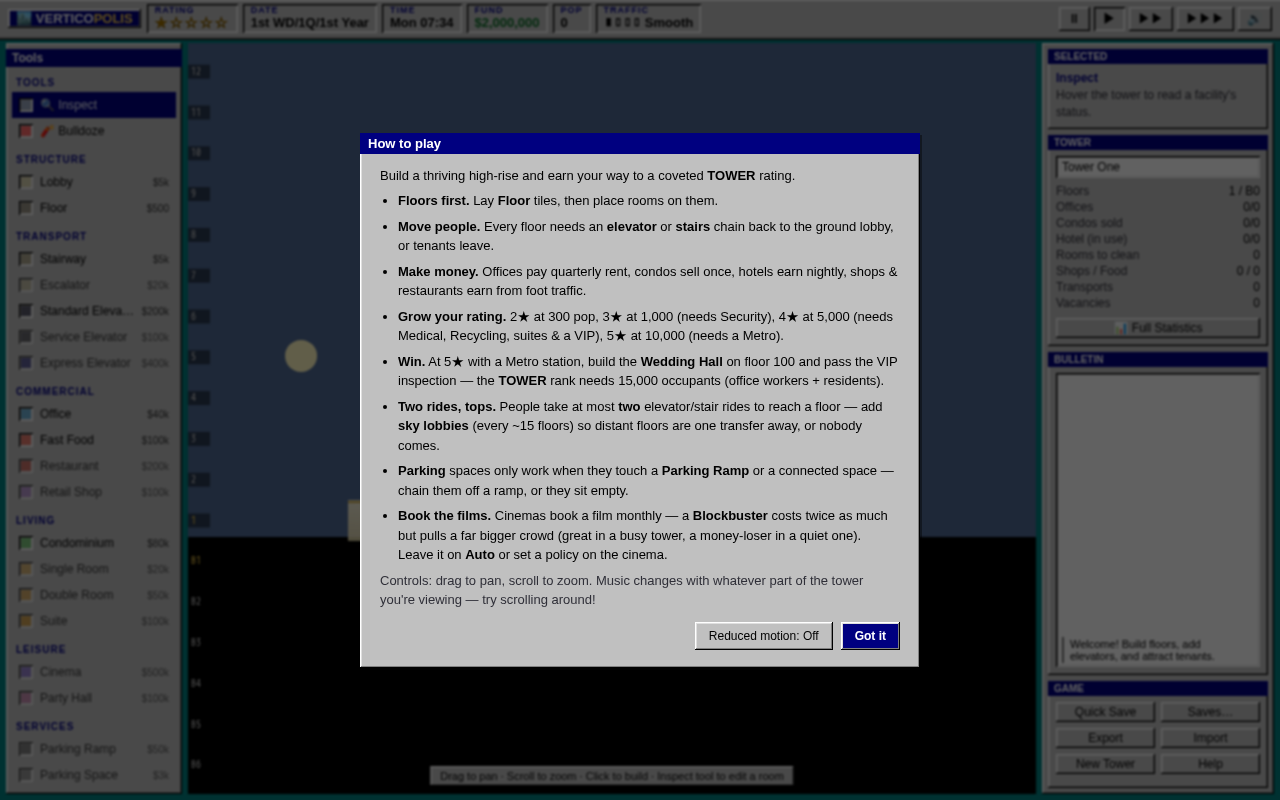
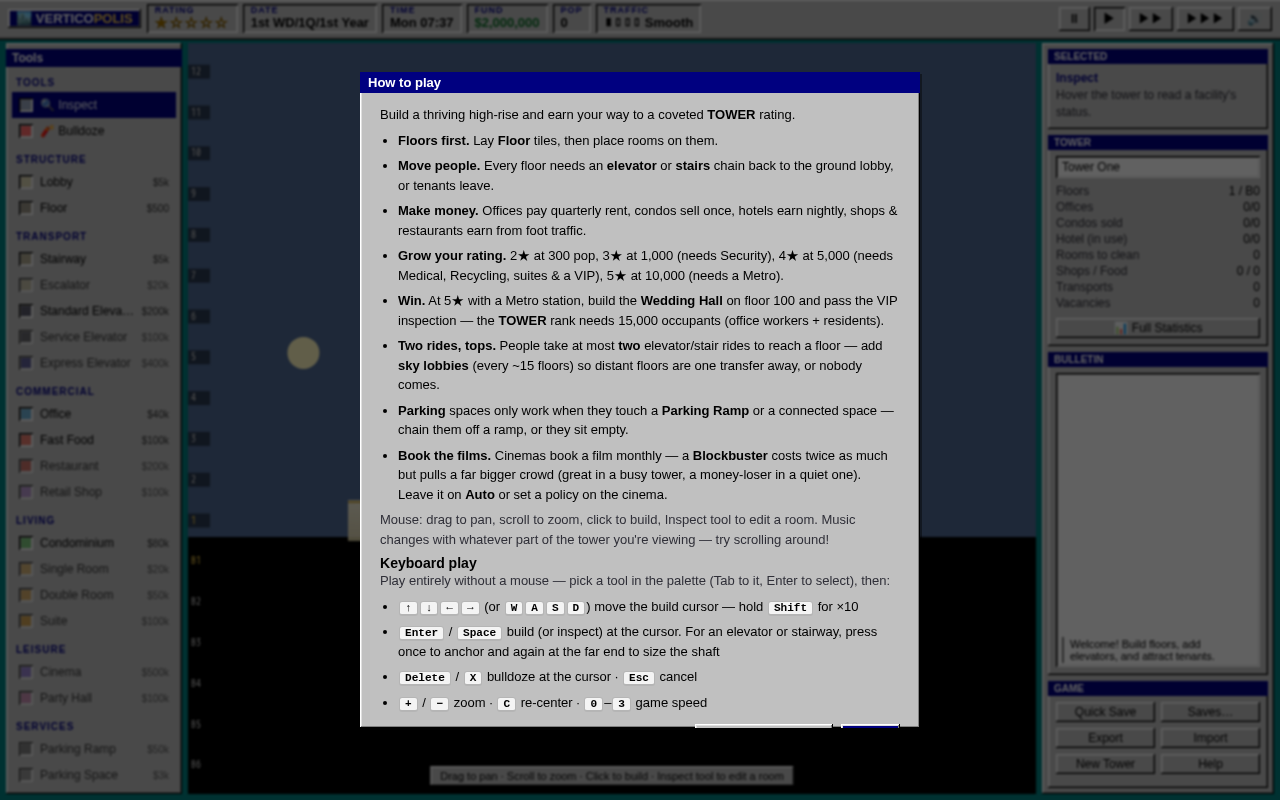
Document keyboard play in the Help dialog
Keyboard controls weren't discoverable — Help only described mouse play. Added a
'Keyboard play' section with styled <kbd> keycaps (arrows/WASD move + Shift ×10,
Enter build / 2-step transport, Delete/X bulldoze, Esc cancel, +/- zoom, C center,
0-3 speed) and clarified the mouse line. Regenerated 02-help.

Claude-Session: https://claude.ai/code/session_019NA2c4AsAgUYb2ST9bkXi8

Changed region(s): [[0.2812, 0.0625, 0.7188, 0.9375], [0.2188, 0.4062, 0.25, 0.4688]]

diff --git a/src/styles.css b/src/styles.css
@@ -1072,3 +1072,19 @@ html.reduce-motion *::after {
   outline: 2px solid var(--accent);
   outline-offset: 1px;
 }
+
+/* Help dialog: keyboard-play key hints. */
+.help-keys { line-height: 1.9; }
+.help-keys kbd {
+  display: inline-block;
+  min-width: 1.1em;
+  padding: 0 5px;
+  margin: 0 1px;
+  font: 600 0.85em "Courier New", monospace;
+  text-align: center;
+  color: var(--ink, #1a1a1a);
+  background: #f4f4f4;
+  border: 1px solid #b5b5b5;
+  border-bottom-width: 2px;
+  border-radius: 3px;
+}

diff --git a/src/ui/UI.ts b/src/ui/UI.ts
@@ -557,7 +557,15 @@ export class UI {
         <li><b>Parking</b> spaces only work when they touch a <b>Parking Ramp</b> or a connected space — chain them off a ramp, or they sit empty.</li>
         <li><b>Book the films.</b> Cinemas book a film monthly — a <b>Blockbuster</b> costs twice as much but pulls a far bigger crowd (great in a busy tower, a money-loser in a quiet one). Leave it on <b>Auto</b> or set a policy on the cinema.</li>
       </ul>
-      <p style="color:var(--muted)">Controls: drag to pan, scroll to zoom. Music changes with whatever part of the tower you're viewing — try scrolling around!</p>
+      <p style="color:var(--muted)">Mouse: drag to pan, scroll to zoom, click to build, Inspect tool to edit a room. Music changes with whatever part of the tower you're viewing — try scrolling around!</p>
+      <h3>Keyboard play</h3>
+      <p style="color:var(--muted)">Play entirely without a mouse — pick a tool in the palette (Tab to it, Enter to select), then:</p>
+      <ul class="help-keys">
+        <li><kbd>↑</kbd><kbd>↓</kbd><kbd>←</kbd><kbd>→</kbd> (or <kbd>W</kbd><kbd>A</kbd><kbd>S</kbd><kbd>D</kbd>) move the build cursor — hold <kbd>Shift</kbd> for ×10</li>
+        <li><kbd>Enter</kbd> / <kbd>Space</kbd> build (or inspect) at the cursor. For an elevator or stairway, press once to anchor and again at the far end to size the shaft</li>
+        <li><kbd>Delete</kbd> / <kbd>X</kbd> bulldoze at the cursor · <kbd>Esc</kbd> cancel</li>
+        <li><kbd>+</kbd> / <kbd>−</kbd> zoom · <kbd>C</kbd> re-center · <kbd>0</kbd>–<kbd>3</kbd> game speed</li>
+      </ul>
       <div class="modal-actions"><button data-act="reduce-motion"></button><button class="primary" data-act="close">Got it</button></div>
     `);
     const rm = box.querySelector<HTMLButtonElement>('[data-act="reduce-motion"]')!;